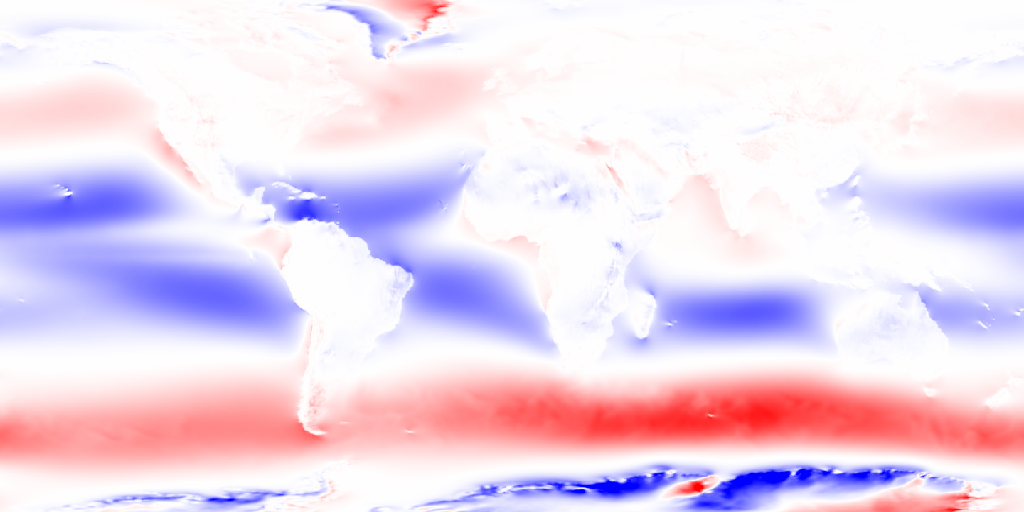
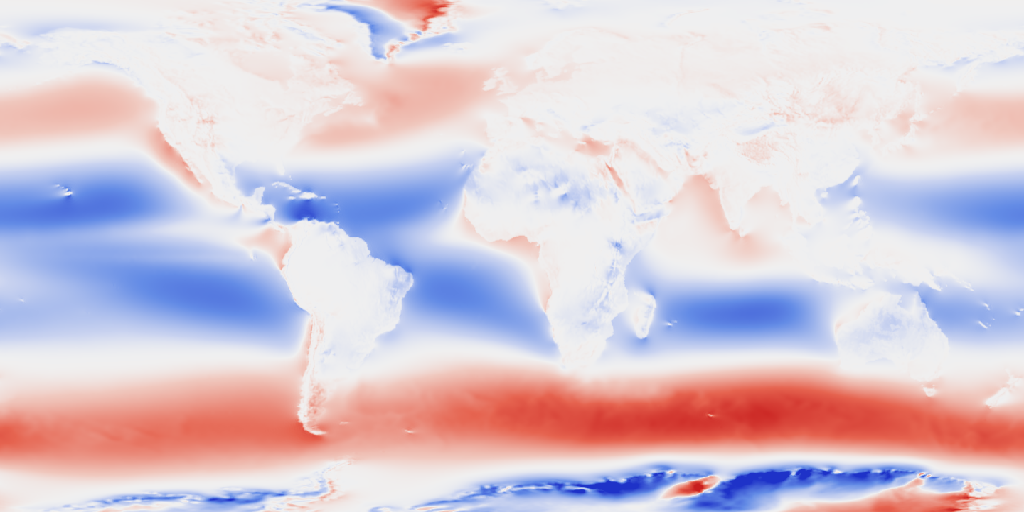
Clean up viewer: remove EE thumbnails, add links/dates/DOIs, lightbox for full-res
- Removed tiny EE reference images (bathymetry.png, cloud_fraction.png, etc.)
- Hand-curated viewer.html with full provenance per field
- Each card links to source dataset page and EE catalog
- Date ranges highlighted in gold
- Click-to-zoom lightbox for full 1024x512 resolution
- Stop generate_viewer() from overwriting curated page
- Re-rendered wind/albedo with improved colormaps

diff --git a/data/viewer.html b/data/viewer.html
@@ -2,158 +2,185 @@
 <html lang="en">
 <head>
 <meta charset="utf-8">
-<title>SimAMOC Data Maps - 1024x512</title>
+<title>SimAMOC Observational Data Maps - 1024x512</title>
 <style>
 * { margin: 0; padding: 0; box-sizing: border-box; }
-body { font-family: -apple-system, BlinkMacSystemFont, 'Segoe UI', sans-serif;
-       background: #0a0a0a; color: #e0e0e0; padding: 2rem; }
+body { font-family: -apple-system, BlinkMacSystemFont, "Segoe UI", sans-serif;
+       background: #0a0a0a; color: #e0e0e0; padding: 2rem; max-width: 1400px; margin: 0 auto; }
 h1 { font-size: 1.8rem; margin-bottom: 0.5rem; color: #fff; }
-h2 { font-size: 1.3rem; margin: 2rem 0 1rem; color: #88aacc; }
-.subtitle { color: #888; margin-bottom: 2rem; }
-.grid { display: grid; grid-template-columns: repeat(auto-fill, minmax(600px, 1fr)); gap: 1.5rem; }
+h2 { font-size: 1.3rem; margin: 2.5rem 0 1rem; color: #88aacc; border-bottom: 1px solid #222; padding-bottom: 0.5rem; }
+.subtitle { color: #888; margin-bottom: 2rem; line-height: 1.5; }
+.grid { display: grid; grid-template-columns: 1fr; gap: 1.5rem; }
+@media (min-width: 1000px) { .grid { grid-template-columns: repeat(2, 1fr); } }
 .card { background: #1a1a1a; border-radius: 8px; overflow: hidden; border: 1px solid #333; }
-.card h3 { padding: 0.8rem 1rem 0.4rem; font-size: 1rem; color: #aaccee; }
-.card img { width: 100%; display: block; image-rendering: pixelated; }
-.card .meta { padding: 0.4rem 1rem 0.8rem; font-size: 0.8rem; color: #666; }
+.card h3 { padding: 0.8rem 1rem 0.4rem; font-size: 1.05rem; color: #aaccee; }
+.card img { width: 100%; display: block; image-rendering: pixelated; cursor: pointer; }
+.card img:hover { opacity: 0.9; }
+.provenance { padding: 0.6rem 1rem 0.8rem; font-size: 0.8rem; }
+.prov-row { display: flex; gap: 0.5rem; padding: 0.2rem 0; border-bottom: 1px solid #1f1f1f; }
+.prov-label { color: #666; min-width: 90px; flex-shrink: 0; font-weight: 500; }
+.prov-value { color: #ccc; }
+.prov-date { color: #cc9944; font-weight: 600; }
+a { color: #6699cc; text-decoration: none; }
+a:hover { text-decoration: underline; }
 table { width: 100%; border-collapse: collapse; margin: 1rem 0; }
-th, td { text-align: left; padding: 0.5rem 1rem; border-bottom: 1px solid #222; }
+th, td { text-align: left; padding: 0.5rem 0.8rem; border-bottom: 1px solid #222; }
 th { color: #88aacc; font-weight: 600; }
-td { font-size: 0.85rem; }
-code { background: #222; padding: 0.1rem 0.3rem; border-radius: 3px; font-size: 0.85rem; }
-.footer { margin-top: 3rem; padding-top: 1rem; border-top: 1px solid #222;
-           font-size: 0.8rem; color: #555; }
+td { font-size: 0.8rem; }
+code { background: #222; padding: 0.1rem 0.3rem; border-radius: 3px; font-size: 0.8rem; }
+.footer { margin-top: 3rem; padding-top: 1rem; border-top: 1px solid #222; font-size: 0.8rem; color: #555; }
+.summary { display: grid; grid-template-columns: repeat(3, 1fr); gap: 1rem; margin: 1rem 0; }
+.summary-item { background: #1a1a1a; border: 1px solid #333; border-radius: 6px; padding: 1rem; }
+.summary-item .label { font-size: 0.75rem; color: #888; text-transform: uppercase; letter-spacing: 0.05em; }
+.summary-item .value { font-size: 1.4rem; color: #fff; margin-top: 0.3rem; }
+.lightbox { display: none; position: fixed; top: 0; left: 0; width: 100%; height: 100%;
+            background: rgba(0,0,0,0.92); z-index: 1000; cursor: pointer; align-items: center; justify-content: center; }
+.lightbox.active { display: flex; }
+.lightbox img { max-width: 95%; max-height: 95%; image-rendering: pixelated; }
 </style>
 </head>
 <body>
 <h1>SimAMOC Observational Data Maps</h1>
-<p class="subtitle">Grid: 1024 x 512 (0.3516 x 0.3105 deg) | Lat: -79.5 to 79.5 | Lon: -180.0 to 180.0</p>
+<p class="subtitle">
+Grid: 1024 x 512 (0.35 x 0.31 deg) | Lat: -79.5 to 79.5 | Lon: -180 to 180<br>
+All data fetched from native-resolution sources via Google Earth Engine and WOA23 OPeNDAP. Click any map to view full resolution.
+</p>
 
-<h2>Reference Images</h2>
+<div class="summary">
+    <div class="summary-item"><div class="label">Resolution</div><div class="value">1024 x 512</div></div>
+    <div class="summary-item"><div class="label">Cell Size</div><div class="value">0.35 x 0.31 deg</div></div>
+    <div class="summary-item"><div class="label">Data Files</div><div class="value">9</div></div>
+</div>
+
+<h2>Data Maps &amp; Provenance</h2>
 <div class="grid">
 
-        <div class="card">
-            <h3>Albedo Preview</h3>
-            <img src="images/albedo_preview.png" alt="Albedo Preview" loading="lazy">
-            <p class="meta">albedo_preview.png (241 KB)</p>
-        </div>
-        <div class="card">
-            <h3>Bathymetry</h3>
-            <img src="images/bathymetry.png" alt="Bathymetry" loading="lazy">
-            <p class="meta">bathymetry.png (19 KB)</p>
-        </div>
-        <div class="card">
-            <h3>Bathymetry Preview</h3>
-            <img src="images/bathymetry_preview.png" alt="Bathymetry Preview" loading="lazy">
-            <p class="meta">bathymetry_preview.png (661 KB)</p>
-        </div>
-        <div class="card">
-            <h3>Cloud Fraction</h3>
-            <img src="images/cloud_fraction.png" alt="Cloud Fraction" loading="lazy">
-            <p class="meta">cloud_fraction.png (8 KB)</p>
-        </div>
-        <div class="card">
-            <h3>Cloud Fraction Preview</h3>
-            <img src="images/cloud_fraction_preview.png" alt="Cloud Fraction Preview" loading="lazy">
-            <p class="meta">cloud_fraction_preview.png (105 KB)</p>
-        </div>
-        <div class="card">
-            <h3>Deep Temp Preview</h3>
-            <img src="images/deep_temp_preview.png" alt="Deep Temp Preview" loading="lazy">
-            <p class="meta">deep_temp_preview.png (157 KB)</p>
-        </div>
-        <div class="card">
-            <h3>Mask Preview</h3>
-            <img src="images/mask_preview.png" alt="Mask Preview" loading="lazy">
-            <p class="meta">mask_preview.png (16 KB)</p>
-        </div>
-        <div class="card">
-            <h3>Precipitation</h3>
-            <img src="images/precipitation.png" alt="Precipitation" loading="lazy">
-            <p class="meta">precipitation.png (14 KB)</p>
-        </div>
-        <div class="card">
-            <h3>Precipitation Preview</h3>
-            <img src="images/precipitation_preview.png" alt="Precipitation Preview" loading="lazy">
-            <p class="meta">precipitation_preview.png (460 KB)</p>
-        </div>
-        <div class="card">
-            <h3>Salinity Preview</h3>
-            <img src="images/salinity_preview.png" alt="Salinity Preview" loading="lazy">
-            <p class="meta">salinity_preview.png (265 KB)</p>
-        </div>
-        <div class="card">
-            <h3>Sst Preview</h3>
-            <img src="images/sst_preview.png" alt="Sst Preview" loading="lazy">
-            <p class="meta">sst_preview.png (211 KB)</p>
-        </div>
-        <div class="card">
-            <h3>Wind Stress Preview</h3>
-            <img src="images/wind_stress_preview.png" alt="Wind Stress Preview" loading="lazy">
-            <p class="meta">wind_stress_preview.png (198 KB)</p>
-        </div>
-        <div class="card">
-            <h3>Wind U10</h3>
-            <img src="images/wind_u10.png" alt="Wind U10" loading="lazy">
-            <p class="meta">wind_u10.png (11 KB)</p>
-        </div>
+<div class="card"><h3>Bathymetry &amp; Elevation</h3>
+<img src="images/bathymetry_preview.png" alt="Bathymetry" onclick="openLB(this)">
+<div class="provenance">
+<div class="prov-row"><span class="prov-label">Source</span><span class="prov-value"><a href="https://www.ngdc.noaa.gov/mgg/global/">ETOPO1 Global Relief Model (bedrock)</a></span></div>
+<div class="prov-row"><span class="prov-label">Provider</span><span class="prov-value">NOAA NCEI</span></div>
+<div class="prov-row"><span class="prov-label">Native res</span><span class="prov-value">1 arc-minute (~1.85 km)</span></div>
+<div class="prov-row"><span class="prov-label">Date</span><span class="prov-date">Static (geological)</span></div>
+<div class="prov-row"><span class="prov-label">EE catalog</span><span class="prov-value"><a href="https://developers.google.com/earth-engine/datasets/catalog/NOAA_NGDC_ETOPO1">NOAA/NGDC/ETOPO1</a></span></div>
+<div class="prov-row"><span class="prov-label">DOI</span><span class="prov-value"><a href="https://doi.org/10.7289/V5C8276M">10.7289/V5C8276M</a></span></div>
+<div class="prov-row"><span class="prov-label">Range</span><span class="prov-value">-9576 m (ocean) to +5887 m (land)</span></div>
+</div></div>
+
+<div class="card"><h3>Ocean/Land Mask</h3>
+<img src="images/mask_preview.png" alt="Mask" onclick="openLB(this)">
+<div class="provenance">
+<div class="prov-row"><span class="prov-label">Source</span><span class="prov-value">Derived from ETOPO1 (ocean = bedrock &lt; 0)</span></div>
+<div class="prov-row"><span class="prov-label">Ocean cells</span><span class="prov-value">370,022 / 524,288 (70.6%)</span></div>
+<div class="prov-row"><span class="prov-label">Notes</span><span class="prov-value">Polar rows forced to land for boundary conditions</span></div>
+</div></div>
+
+<div class="card"><h3>Sea Surface Temperature</h3>
+<img src="images/sst_preview.png" alt="SST" onclick="openLB(this)">
+<div class="provenance">
+<div class="prov-row"><span class="prov-label">Source</span><span class="prov-value"><a href="https://www.ncei.noaa.gov/products/climate-data-records/sea-surface-temperature-optimum-interpolation">NOAA OI SST v2.1 (CDR)</a></span></div>
+<div class="prov-row"><span class="prov-label">Provider</span><span class="prov-value">NOAA NCEI</span></div>
+<div class="prov-row"><span class="prov-label">Native res</span><span class="prov-value">0.25 deg daily (AVHRR + in situ)</span></div>
+<div class="prov-row"><span class="prov-label">Date</span><span class="prov-date">2015-01-01 to 2023-12-31 (annual mean)</span></div>
+<div class="prov-row"><span class="prov-label">EE catalog</span><span class="prov-value"><a href="https://developers.google.com/earth-engine/datasets/catalog/NOAA_CDR_OISST_V2_1">NOAA/CDR/OISST/V2_1</a></span></div>
+<div class="prov-row"><span class="prov-label">DOI</span><span class="prov-value"><a href="https://doi.org/10.25921/RE9P-PT57">10.25921/RE9P-PT57</a></span></div>
+<div class="prov-row"><span class="prov-label">Range</span><span class="prov-value">-1.8 to 30.4 C</span></div>
+</div></div>
+
+<div class="card"><h3>Wind Stress &amp; Curl</h3>
+<img src="images/wind_stress_preview.png" alt="Wind Stress" onclick="openLB(this)">
+<div class="provenance">
+<div class="prov-row"><span class="prov-label">Source</span><span class="prov-value"><a href="https://cds.climate.copernicus.eu/datasets/reanalysis-era5-single-levels-monthly-means">ERA5 Monthly Reanalysis (10m wind)</a></span></div>
+<div class="prov-row"><span class="prov-label">Provider</span><span class="prov-value">ECMWF / Copernicus C3S</span></div>
+<div class="prov-row"><span class="prov-label">Native res</span><span class="prov-value">0.25 deg</span></div>
+<div class="prov-row"><span class="prov-label">Date</span><span class="prov-date">1991-01-01 to 2020-12-31 (climatology)</span></div>
+<div class="prov-row"><span class="prov-label">EE catalog</span><span class="prov-value"><a href="https://developers.google.com/earth-engine/datasets/catalog/ECMWF_ERA5_MONTHLY">ECMWF/ERA5/MONTHLY</a></span></div>
+<div class="prov-row"><span class="prov-label">DOI</span><span class="prov-value"><a href="https://doi.org/10.24381/cds.f17050d7">10.24381/cds.f17050d7</a></span></div>
+<div class="prov-row"><span class="prov-label">Notes</span><span class="prov-value">Bulk formula: tau = rho * Cd * |U10| * U10. Curl via central differences with cos(lat) metric.</span></div>
+</div></div>
+
+<div class="card"><h3>Surface Albedo</h3>
+<img src="images/albedo_preview.png" alt="Albedo" onclick="openLB(this)">
+<div class="provenance">
+<div class="prov-row"><span class="prov-label">Source</span><span class="prov-value"><a href="https://lpdaac.usgs.gov/products/mcd43a3v061/">MODIS MCD43A3 White-Sky Shortwave Albedo</a></span></div>
+<div class="prov-row"><span class="prov-label">Provider</span><span class="prov-value">NASA LP DAAC (Terra + Aqua)</span></div>
+<div class="prov-row"><span class="prov-label">Native res</span><span class="prov-value">500 m</span></div>
+<div class="prov-row"><span class="prov-label">Date</span><span class="prov-date">2020-01-01 to 2023-12-31 (annual mean)</span></div>
+<div class="prov-row"><span class="prov-label">EE catalog</span><span class="prov-value"><a href="https://developers.google.com/earth-engine/datasets/catalog/MODIS_061_MCD43A3">MODIS/061/MCD43A3</a></span></div>
+<div class="prov-row"><span class="prov-label">DOI</span><span class="prov-value"><a href="https://doi.org/10.5067/MODIS/MCD43A3.061">10.5067/MODIS/MCD43A3.061</a></span></div>
+<div class="prov-row"><span class="prov-label">Range</span><span class="prov-value">0 to 0.91. Land only.</span></div>
+</div></div>
+
+<div class="card"><h3>Precipitation (Land + Ocean)</h3>
+<img src="images/precipitation_preview.png" alt="Precipitation" onclick="openLB(this)">
+<div class="provenance">
+<div class="prov-row"><span class="prov-label">Source</span><span class="prov-value"><a href="https://gpm.nasa.gov/data/imerg">NASA GPM IMERG V07 Monthly</a></span></div>
+<div class="prov-row"><span class="prov-label">Provider</span><span class="prov-value">NASA Goddard / GPM</span></div>
+<div class="prov-row"><span class="prov-label">Native res</span><span class="prov-value">0.1 deg (multi-satellite microwave + IR)</span></div>
+<div class="prov-row"><span class="prov-label">Date</span><span class="prov-date">2015-01-01 to 2023-12-31 (annual mean)</span></div>
+<div class="prov-row"><span class="prov-label">EE catalog</span><span class="prov-value"><a href="https://developers.google.com/earth-engine/datasets/catalog/NASA_GPM_L3_IMERG_MONTHLY_V07">NASA/GPM_L3/IMERG_MONTHLY_V07</a></span></div>
+<div class="prov-row"><span class="prov-label">DOI</span><span class="prov-value"><a href="https://doi.org/10.5067/GPM/IMERG/3B-MONTH/07">10.5067/GPM/IMERG/3B-MONTH/07</a></span></div>
+<div class="prov-row"><span class="prov-label">Range</span><span class="prov-value">0 to 10,509 mm/yr</span></div>
+</div></div>
+
+<div class="card"><h3>Cloud Fraction</h3>
+<img src="images/cloud_fraction_preview.png" alt="Cloud Fraction" onclick="openLB(this)">
+<div class="provenance">
+<div class="prov-row"><span class="prov-label">Source</span><span class="prov-value"><a href="https://ladsweb.modaps.eosdis.nasa.gov/missions-and-measurements/products/MOD08_M3">MODIS MOD08_M3 Cloud Fraction</a></span></div>
+<div class="prov-row"><span class="prov-label">Provider</span><span class="prov-value">NASA LAADS DAAC (Terra)</span></div>
+<div class="prov-row"><span class="prov-label">Native res</span><span class="prov-value">1 deg</span></div>
+<div class="prov-row"><span class="prov-label">Date</span><span class="prov-date">2020-01-01 to 2023-12-31 (annual mean)</span></div>
+<div class="prov-row"><span class="prov-label">EE catalog</span><span class="prov-value"><a href="https://developers.google.com/earth-engine/datasets/catalog/MODIS_061_MOD08_M3">MODIS/061/MOD08_M3</a></span></div>
+<div class="prov-row"><span class="prov-label">DOI</span><span class="prov-value"><a href="https://doi.org/10.5067/MODIS/MOD08_M3.061">10.5067/MODIS/MOD08_M3.061</a></span></div>
+<div class="prov-row"><span class="prov-label">Range</span><span class="prov-value">0.05 to 0.97 (fraction)</span></div>
+</div></div>
+
+<div class="card"><h3>Surface Salinity</h3>
+<img src="images/salinity_preview.png" alt="Salinity" onclick="openLB(this)">
+<div class="provenance">
+<div class="prov-row"><span class="prov-label">Source</span><span class="prov-value"><a href="https://www.ncei.noaa.gov/products/world-ocean-atlas">World Ocean Atlas 2023 (WOA23)</a></span></div>
+<div class="prov-row"><span class="prov-label">Provider</span><span class="prov-value">NOAA NCEI</span></div>
+<div class="prov-row"><span class="prov-label">Native res</span><span class="prov-value">0.25 deg (1440 x 720)</span></div>
+<div class="prov-row"><span class="prov-label">Date</span><span class="prov-date">1991-2020 decadal climatology (annual mean, 0 m)</span></div>
+<div class="prov-row"><span class="prov-label">Access</span><span class="prov-value">OPeNDAP: <a href="https://www.ncei.noaa.gov/thredds-ocean/catalog/woa23/DATA/salinity/netcdf/decav91C0/0.25/catalog.html">NCEI THREDDS</a></span></div>
+<div class="prov-row"><span class="prov-label">DOI</span><span class="prov-value"><a href="https://doi.org/10.25921/ahc1-z540">10.25921/ahc1-z540</a></span></div>
+<div class="prov-row"><span class="prov-label">Range</span><span class="prov-value">5.0 to 41.2 PSU</span></div>
+</div></div>
+
+<div class="card"><h3>Deep Ocean Temperature (1000 m)</h3>
+<img src="images/deep_temp_preview.png" alt="Deep Temperature" onclick="openLB(this)">
+<div class="provenance">
+<div class="prov-row"><span class="prov-label">Source</span><span class="prov-value"><a href="https://www.ncei.noaa.gov/products/world-ocean-atlas">World Ocean Atlas 2023 (WOA23)</a></span></div>
+<div class="prov-row"><span class="prov-label">Provider</span><span class="prov-value">NOAA NCEI</span></div>
+<div class="prov-row"><span class="prov-label">Native res</span><span class="prov-value">0.25 deg (1440 x 720)</span></div>
+<div class="prov-row"><span class="prov-label">Date</span><span class="prov-date">1991-2020 decadal climatology (annual mean, 1000 m)</span></div>
+<div class="prov-row"><span class="prov-label">Access</span><span class="prov-value">OPeNDAP: <a href="https://www.ncei.noaa.gov/thredds-ocean/catalog/woa23/DATA/temperature/netcdf/decav91C0/0.25/catalog.html">NCEI THREDDS</a></span></div>
+<div class="prov-row"><span class="prov-label">DOI</span><span class="prov-value"><a href="https://doi.org/10.25921/wd9h-gv07">10.25921/wd9h-gv07</a></span></div>
+<div class="prov-row"><span class="prov-label">Range</span><span class="prov-value">-2.0 to 22.7 C (depth index 46)</span></div>
+</div></div>
+
 </div>
 
 <h2>Data Files</h2>
 <table>
-<tr><th>File</th><th>Grid</th><th>Size</th><th>Source</th></tr>
-
-            <tr>
-                <td><code>albedo.json</code></td>
-                <td>1024x512</td>
-                <td>3446 KB</td>
-                <td>MODIS MCD43A3 white-sky shortwave albedo, 2020-2023 annual mean, via Earth Engine</td>
-            </tr>
-            <tr>
-                <td><code>bathymetry.json</code></td>
-                <td>1024x512</td>
-                <td>4367 KB</td>
-                <td>ETOPO1 bedrock via Earth Engine, native resolution sampled to 1024x512</td>
-            </tr>
-            <tr>
-                <td><code>cloud_fraction.json</code></td>
-                <td>1024x512</td>
-                <td>3528 KB</td>
-                <td>MODIS MOD08_M3 cloud fraction, 2020-2023 annual mean, via Earth Engine</td>
-            </tr>
-            <tr>
-                <td><code>deep_temp.json</code></td>
-                <td>1024x512</td>
-                <td>3570 KB</td>
-                <td>WOA23 annual mean temperature at 1000.0m, 0.25-deg interpolated to 1024x512</td>
-            </tr>
-            <tr>
-                <td><code>precipitation.json</code></td>
-                <td>1024x512</td>
-                <td>2683 KB</td>
-                <td>NASA GPM IMERG V07 monthly, 2015-2023 annual mean (mm/year), land+ocean, via Earth Engine</td>
-            </tr>
-            <tr>
-                <td><code>salinity.json</code></td>
-                <td>1024x512</td>
-                <td>4026 KB</td>
-                <td>WOA23 annual mean surface salinity (0m), 0.25-deg interpolated to 1024x512</td>
-            </tr>
-            <tr>
-                <td><code>sst.json</code></td>
-                <td>1024x512</td>
-                <td>3157 KB</td>
-                <td>NOAA OI SST v2.1 (CDR), 2015-2023 annual mean, via Earth Engine</td>
-            </tr>
-            <tr>
-                <td><code>wind_stress.json</code></td>
-                <td>1024x512</td>
-                <td>15075 KB</td>
-                <td>ERA5 Monthly 10m wind, 1991-2020 mean, bulk stress Cd=1.3e-3, via Earth Engine</td>
-            </tr>
+<tr><th>File</th><th>Grid</th><th>Size</th><th>Date Range</th><th>Source</th></tr>
+<tr><td><code>bathymetry.json</code></td><td>1024x512</td><td>4.3 MB</td><td>Static</td><td>ETOPO1 bedrock via Earth Engine</td></tr>
+<tr><td><code>mask.json</code></td><td>1024x512</td><td>128 KB</td><td>-</td><td>Derived from ETOPO1</td></tr>
+<tr><td><code>sst.json</code></td><td>1024x512</td><td>3.1 MB</td><td>2015-2023</td><td>NOAA OISST v2.1 CDR annual mean</td></tr>
+<tr><td><code>wind_stress.json</code></td><td>1024x512</td><td>15 MB</td><td>1991-2020</td><td>ERA5 Monthly 10m wind, bulk stress</td></tr>
+<tr><td><code>albedo.json</code></td><td>1024x512</td><td>3.4 MB</td><td>2020-2023</td><td>MODIS MCD43A3 WSA shortwave</td></tr>
+<tr><td><code>precipitation.json</code></td><td>1024x512</td><td>2.7 MB</td><td>2015-2023</td><td>GPM IMERG V07 monthly, land+ocean</td></tr>
+<tr><td><code>cloud_fraction.json</code></td><td>1024x512</td><td>3.5 MB</td><td>2020-2023</td><td>MODIS MOD08_M3 cloud fraction</td></tr>
+<tr><td><code>salinity.json</code></td><td>1024x512</td><td>4.0 MB</td><td>1991-2020</td><td>WOA23 surface salinity via OPeNDAP</td></tr>
+<tr><td><code>deep_temp.json</code></td><td>1024x512</td><td>3.6 MB</td><td>1991-2020</td><td>WOA23 temp at 1000m via OPeNDAP</td></tr>
 </table>
 
 <div class="footer">
-Generated by fetch-data-hires.py | Data fetched from Earth Engine + WOA23 OPeNDAP
+Data fetched April 2026 via <code>fetch-data-hires.py</code> | Sources: Google Earth Engine + WOA23 OPeNDAP<br>
+All fields sampled at 1024x512 from native-resolution sources (not upscaled from coarser grids).
 </div>
+
+<div class="lightbox" id="lb" onclick="this.classList.remove('active')"><img id="lbi" src=""></div>
+<script>function openLB(img){document.getElementById('lbi').src=img.src;document.getElementById('lb').classList.add('active')}</script>
 </body>
 </html>

diff --git a/fetch-data-hires.py b/fetch-data-hires.py
@@ -659,8 +659,7 @@ def main():
             import traceback
             traceback.print_exc()
 
-    # Generate viewer page
-    generate_viewer()
+    # Viewer page is hand-curated (data/viewer.html) — don't overwrite
 
     print("\n" + "=" * 60)
     print(f"All data saved to {DATA_DIR}/")
